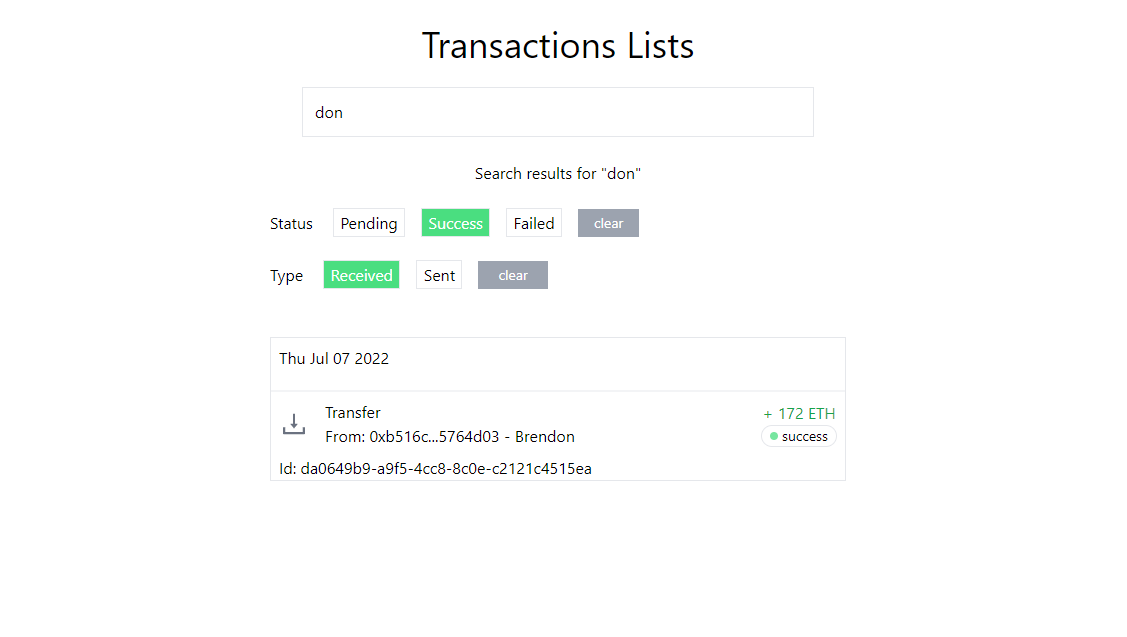
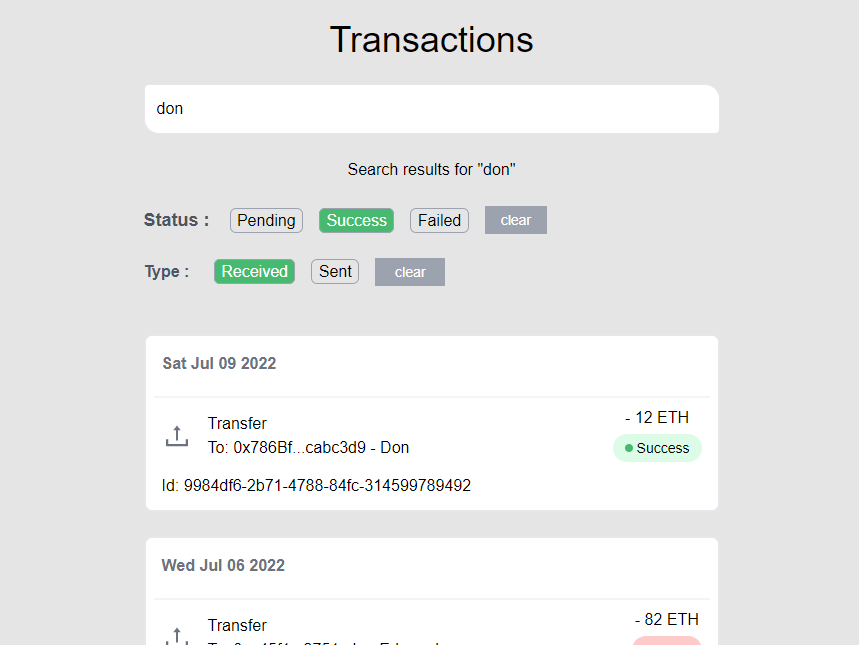
chores:ui updates

diff --git a/pages/index.tsx b/pages/index.tsx
@@ -67,7 +67,7 @@ const Home: NextPage = () => {
   const _input = (
     <>
       {' '}
-      <div className="max-w-lg m-auto my-6">
+      <div className="max-w-xl m-auto my-6">
         <Input
           disabled={!loaded}
           placeholder="Search by Txn Id, Receiver Address or Alias"
@@ -89,7 +89,7 @@ const Home: NextPage = () => {
     <>
       <div className="radio-block m-auto max-w-xl flex  items-center w-full mt-6">
         <div>
-          <span className="mr-5">Status</span>
+          <span className="mr-5 text-gray-600 text-lg"><b>Status :</b></span>
           <input
             checked={filterTxn.status == 'pending'}
             type="radio"
@@ -98,7 +98,7 @@ const Home: NextPage = () => {
             value="pending"
             onChange={handleFilter}
           />
-          <label htmlFor="pending-status" className="border">
+          <label htmlFor="pending-status" className="border border-gray-400">
             Pending
           </label>
 
@@ -110,7 +110,7 @@ const Home: NextPage = () => {
             value="success"
             onChange={handleFilter}
           />
-          <label htmlFor="success-status" className="border">
+          <label htmlFor="success-status" className="border border-gray-400">
             Success
           </label>
           <input
@@ -121,7 +121,7 @@ const Home: NextPage = () => {
             value="failed"
             onChange={handleFilter}
           />
-          <label htmlFor="failed-status" className="border">
+          <label htmlFor="failed-status" className="border border-gray-400">
             Failed
           </label>
         </div>
@@ -142,7 +142,7 @@ const Home: NextPage = () => {
 
       <div className="radio-block m-auto max-w-xl flex items-center w-full mt-6">
         <div>
-          <span className="mr-5">Type</span>
+          <span className="mr-5 text-gray-600 text-l"><b>Type : </b></span>
           <input
             checked={filterTxn.type == 'in'}
             type="radio"
@@ -151,7 +151,7 @@ const Home: NextPage = () => {
             value="in"
             onChange={handleFilter}
           />
-          <label htmlFor="in-type" className="border">
+          <label htmlFor="in-type" className="border border-gray-400">
             Received
           </label>
 
@@ -163,7 +163,7 @@ const Home: NextPage = () => {
             value="out"
             onChange={handleFilter}
           />
-          <label htmlFor="out-type" className="border">
+          <label htmlFor="out-type" className="border border-gray-400">
             Sent
           </label>
         </div>
@@ -193,7 +193,7 @@ const Home: NextPage = () => {
       </Head>
 
       <div className="px-4">
-        <h1 className="text-center text-4xl my-6">Transactions Lists</h1>
+        <h1 className="text-center text-4xl my-6">Transactions </h1>
 
         {_input}
         {loaded && _filters}

diff --git a/components/Transactions/index.tsx b/components/Transactions/index.tsx
@@ -7,8 +7,8 @@ const TransactionComp = ({ data }: any) => {
     <>
       {data?.map((i: any, idx: number) => (
         <div key={idx + id}>
-          <div className="mb-6 border  ">
-            <h1 className="mb-3 p-2">{i.date}</h1>
+          <div className="mb-6 border-2 bg-white p-2 rounded-lg  transition duration-300 ease-in-out hover:scale-105">
+            <h1 className="mb-3 p-2 font-bold text-gray-500">{i.date}</h1>
             {i.data.map((i: any, idx: number) => (
               <>
                 <div
@@ -39,21 +39,27 @@ const TransactionComp = ({ data }: any) => {
                       {i.type === 'in' ? '+' : '-'} {i.amount} ETH
                     </div>
 
-                    <div className="flex items-center rounded-full border px-2 text-sm text-bold  ">
+                    <div className={`${
+                       i.status == 'pending'
+                       ? 'bg-yellow-100'
+                       : i.status == 'failed'
+                       ? 'bg-red-200'
+                       : 'bg-green-100'
+                    } flex items-center rounded-full px-3 py-1 text-sm my-1 text-bold`}>
                       <span
                         className={`${
                           i.status == 'pending'
-                            ? 'bg-yellow-400'
+                            ? 'bg-yellow-600'
                             : i.status == 'failed'
                             ? 'bg-red-600'
-                            : 'bg-green-400'
+                            : 'bg-green-600'
                         } h-2 w-2 rounded-full  opacity-75 mr-1`}
                       ></span>
                       {i.status}
                     </div>
                   </div>
                 </div>
-               <div className='ml-2'> Id: {i.id}</div>
+               <div className='ml-2 pb-1'> Id: {i.id}</div>
                 
               </>
             ))}

diff --git a/styles/globals.css b/styles/globals.css
@@ -1,18 +1,23 @@
 @tailwind base;
 @tailwind components;
 @tailwind utilities;
-
+@import url('https://fonts.googleapis.com/css2?family=Lato&family=Montserrat:ital@1&display=swap');
 .radio-block input[type='radio'] {
   display: none;
 }
+body {
+  font-family: 'Lato', sans-serif;
+  background-color: #e5e5e5;
+}
 .radio-block input[type='radio']:checked + label {
-  background-color: rgb(74 222 128);
+  background-color: #48b971;
   color: #fff;
 }
 .radio-block input[type='radio'] + label {
   cursor: pointer;
   margin-right: 1rem;
   padding: 0.2rem 0.4rem;
+  border-radius: 6px;
 }
 
 /********************

diff --git a/graphql/resolvers.ts b/graphql/resolvers.ts
@@ -6,7 +6,7 @@ const options = {
   includeScore: false,
   keys: ['receiver', 'id', 'alias','description', 'amount', 'status'],
   minMatchCharLength:3,
-  distance:10
+  distance:10,
 }
 
 const results = (args: SearchQuery, txnList: any[], options: any) => {

diff --git a/components/input.tsx b/components/input.tsx
@@ -20,6 +20,10 @@ const Input = ({
         placeholder={placeholder}
         className="block w-full border p-3"
         onChange={handleChange}
+        style={{
+          borderRadius:'5px 15px 5px 15px',
+
+        }}
       />
     </>
   )

diff --git a/README.md b/README.md
@@ -75,13 +75,13 @@ Click on the `Pending`, `Success` or `Failed` Button to see corresponding status
 
 This project is bootstrapped with Nextjs. I want to make sure both the frontend and backend run on the same server, since Nextjs has the capacity for a full-stack app, I decided to go with it.
 
-## Chanllenges
+## Challenges
 
-One of the challenge I faced is formating the backend end data such that the frontend can show them grouped by the same date they occur. I solved this by
+One of the challenges I faced is formating the backend end data such that the frontend can show them grouped by the same date they occur. I solved this by
 
 - Mapping through the data and giving data on the same date a common date
 - Group the data by the common date
-- put data with the same date in an array with the key `date` and `data`
+- Put data with the same date in an array with the key `date` and `data`
 
 code location - `/utils.ts`
 function name - `normalizedTxn`
